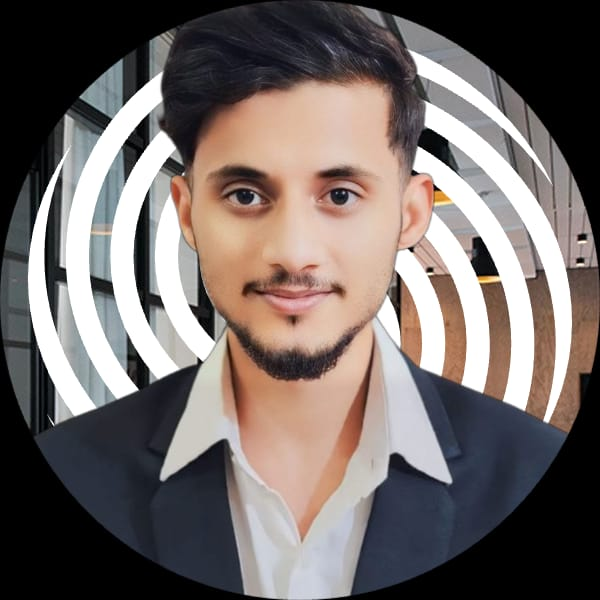
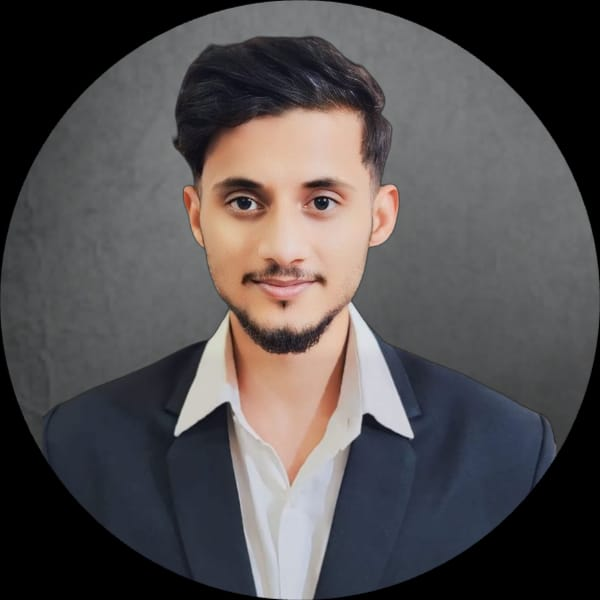
eight

diff --git a/index.html b/index.html
@@ -166,7 +166,7 @@
           <div class="container">
             <div class="row d-md-flex no-gutters slider-text align-items-end justify-content-end" data-scrollax-parent="true">
               <div class="one-third js-fullheight order-md-last img" style="display: flex; height: 200px; justify-content: space-around;" >
-                <img class="profile_photo" src="images/me.jpeg" alt="profile" style="scale: .5;position: relative; left: 200px; top: -100px;"> 
+                <img class="profile_photo" src="images/me.jpeg" alt="profile" style="scale: .5;position: relative; left: 125px; top: -100px;"> 
                 <div class="overlay"></div>
               </div>
               <div class="one-forth d-flex  align-items-center ftco-animate" data-scrollax=" properties: { translateY: '70%' }">
@@ -229,7 +229,7 @@
                   <div class="row">
                     <div class="col-sm-6 col-md-5">
                       <div class="about-img">
-                        <img src="images/me.jpeg" class="img-fluid rounded b-shadow-a" alt="">
+                        <img src="images/about-me.jpeg" class="img-fluid rounded b-shadow-a" alt="">
                       </div>
                     </div>
                     <!-- Details next to profile image -->
